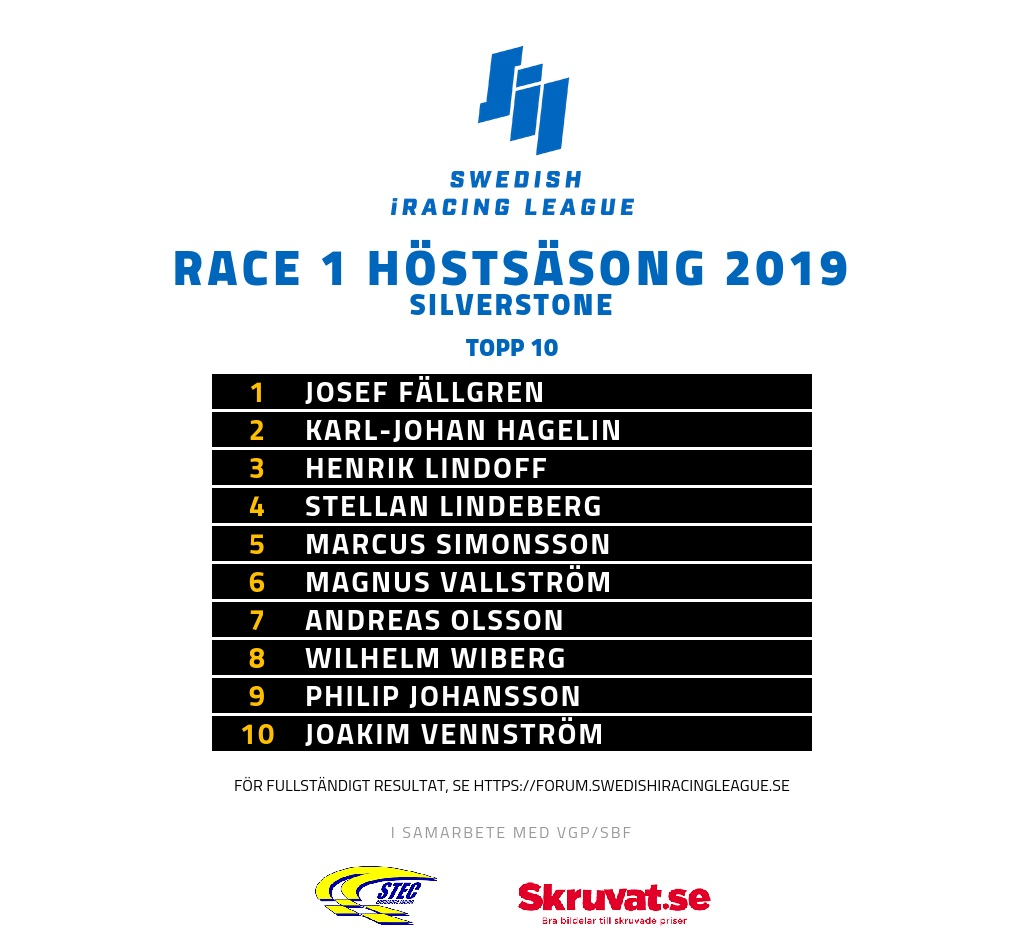
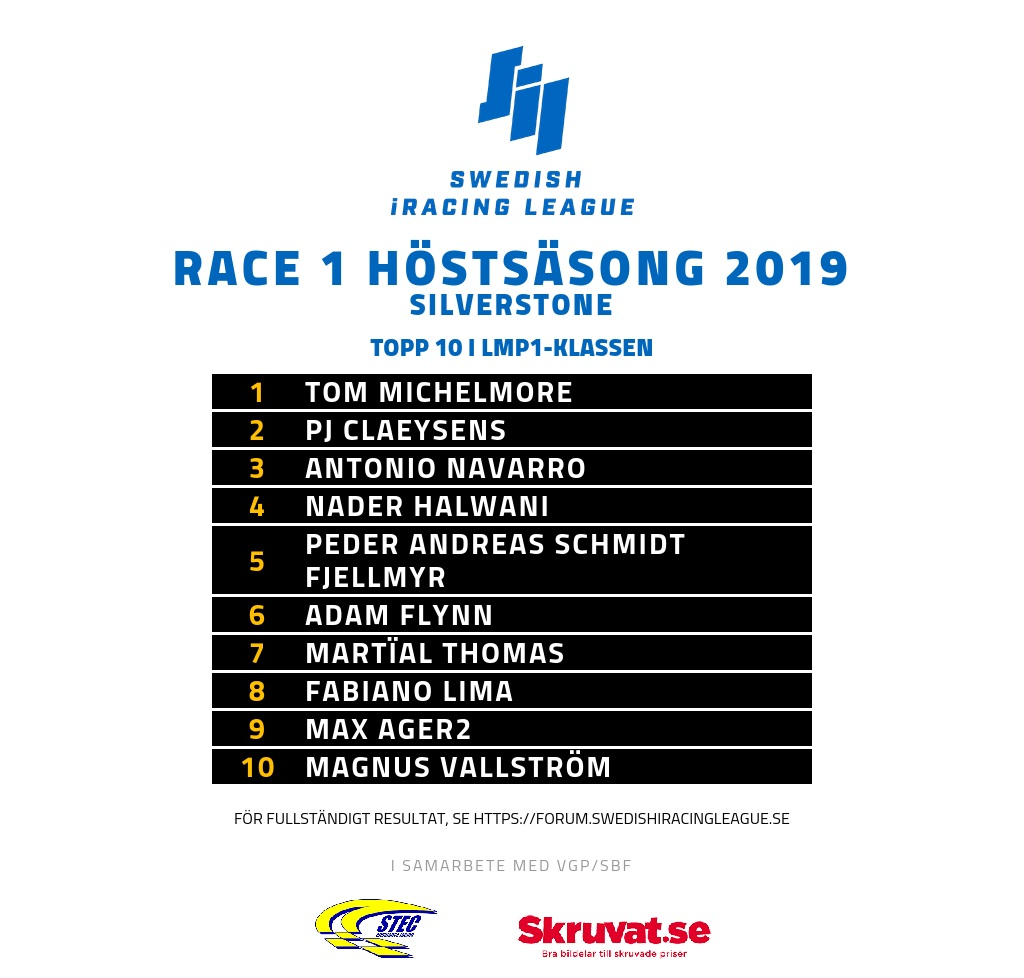
Changed example image to ilms lmp1 results

Changed region(s): [[0.1562, 0.0614, 0.8438, 0.8899], [0.5, 0.9206, 0.6875, 0.982], [0.3125, 0.8899, 0.4375, 0.982]]

diff --git a/app/app.py b/app/app.py
@@ -139,15 +139,14 @@ def generate_results(input_list, results_file_name):
         generate_results_for_class(class_dict, results_file_name, single_class)
 
 if __name__ == '__main__':
-    # class_list = [
-    #     {'classID': ct.CLASS_ID_LMP1},
-    #     {'classID': ct.CLASS_ID_HPD},
-    #     {'classID': ct.CLASS_ID_GTE}
-    # ]
-    # results_file_name = 'results.csv'
-
     class_list = [
-        {'classID': ct.CLASS_ID_MX5_CUP}
+        {'classID': ct.CLASS_ID_LMP1},
+        {'classID': ct.CLASS_ID_HPD},
+        {'classID': ct.CLASS_ID_GTE}
     ]
     results_file_name = 'results.csv'
+
+    # class_list = [
+    #     {'classID': ct.CLASS_ID_MX5_CUP}
+    # ]
     generate_results(class_list, results_file_name)
